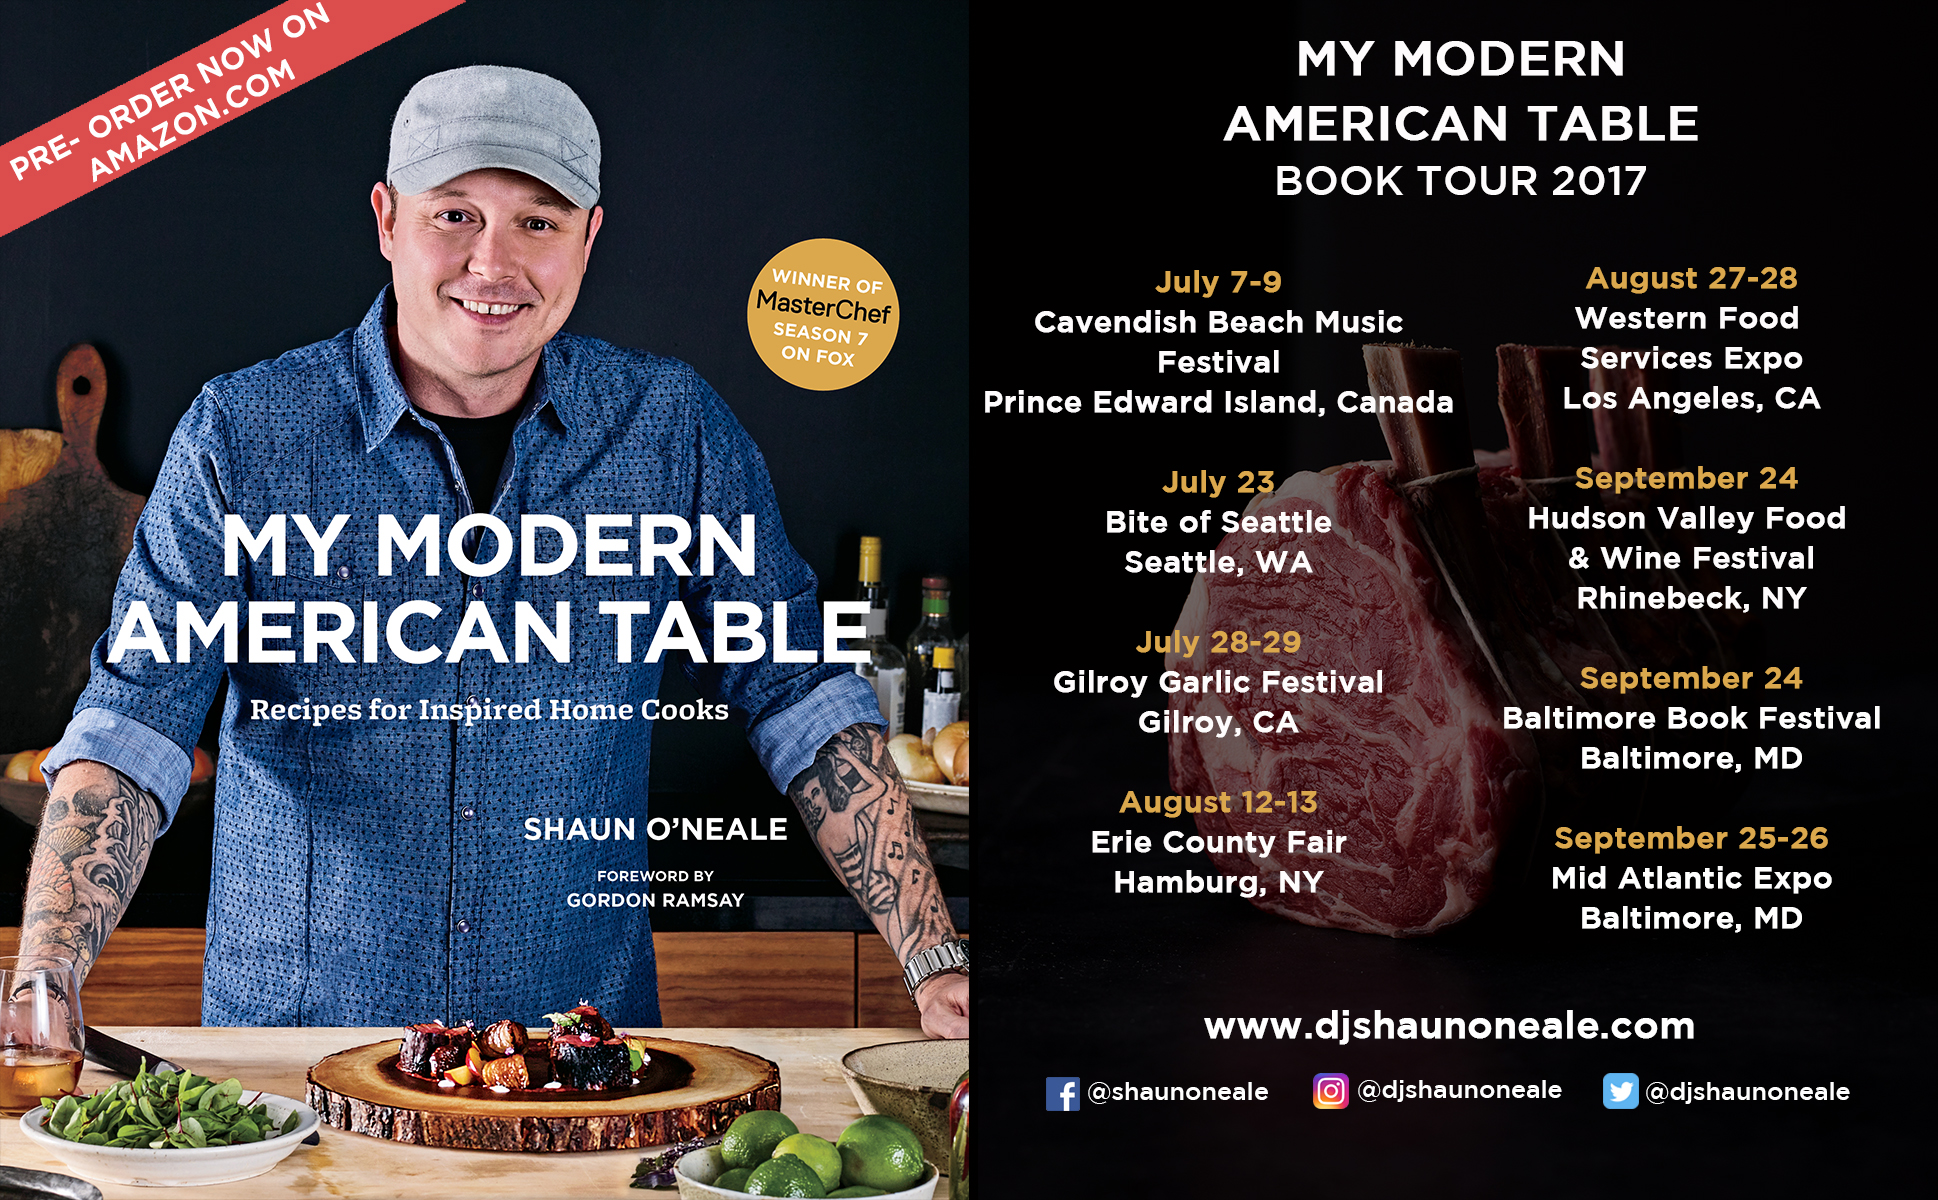
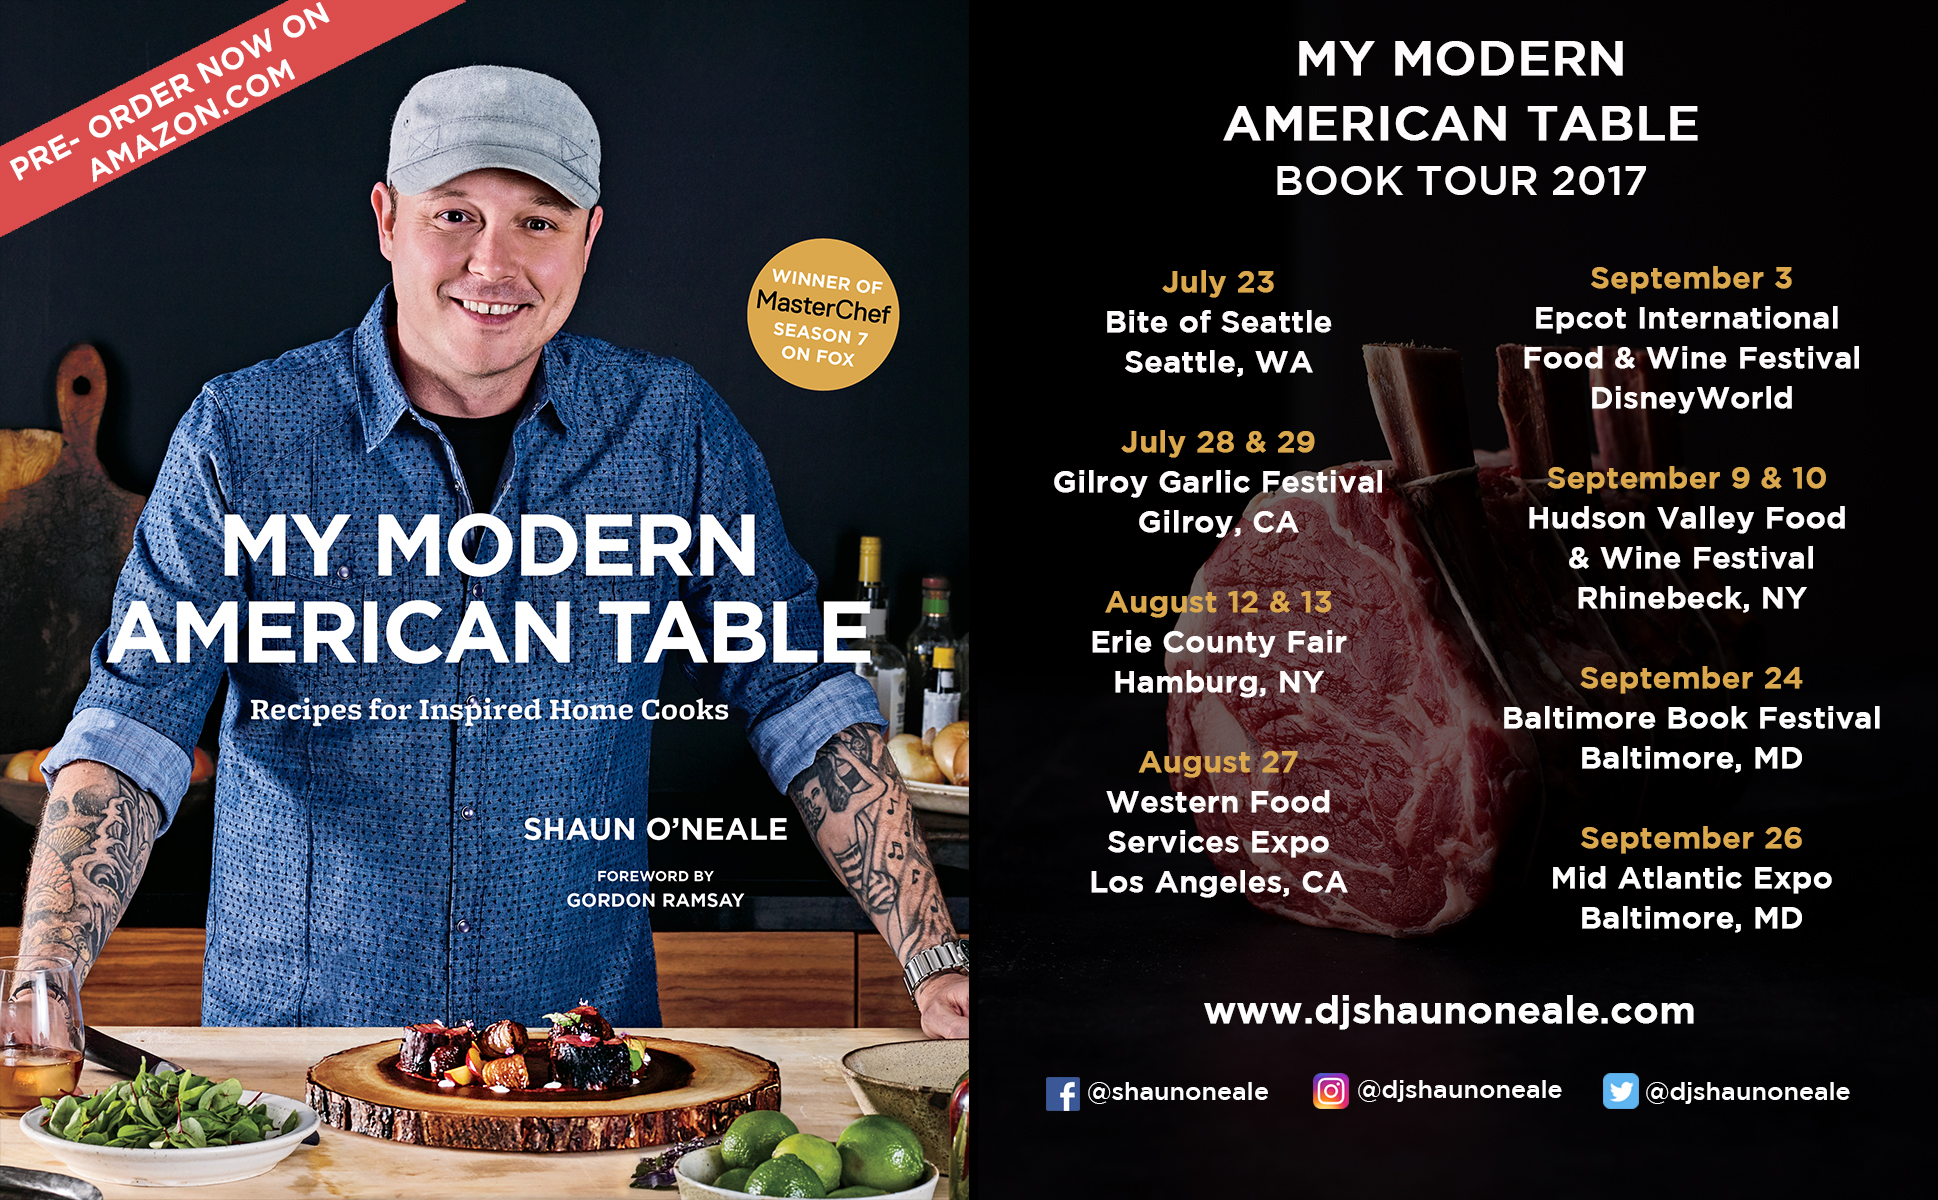
added new flyer and changed schedule

diff --git a/src/client/components/Home.js b/src/client/components/Home.js
@@ -9,6 +9,7 @@ import Flyer1 from 'assets/images/flyer1.png'
 import Flyer2 from 'assets/images/flyer2.png'
 import Craftsy from 'assets/images/craftsy.png'
 import UpcomingSchedule from 'assets/images/upcomingSchedule.png'
+import Disney from 'assets/images/disneyFlyer.png'
 //Tempory
 // import Under from 'assets/images/ucp.png'
 // import 'assets/styles/blog.css'
@@ -49,10 +50,7 @@ export default React.createClass({
           </a>
         </div>
         <div className="scheduleContainer">
-          <img className="scheduleImage" src={Flyer1}/>
-        </div>
-        <div className="scheduleContainer">
-          <img className="scheduleImage" src={Flyer2}/>
+          <img className="scheduleImage" src={Disney}/>
         </div>
         <div className="scheduleContainer">
           <h3 className= "scheduleTitle">My Upcoming Events</h3>
@@ -62,7 +60,12 @@ export default React.createClass({
           <h3 className= "scheduleTitle">My Past Events</h3>
           <img className="scheduleImage" src={Schedule}/>
         </div>
-
+        <div className="scheduleContainer">
+          <img className="scheduleImage" src={Flyer1}/>
+        </div>
+        <div className="scheduleContainer">
+          <img className="scheduleImage" src={Flyer2}/>
+        </div>
       </div>
     )
   }
